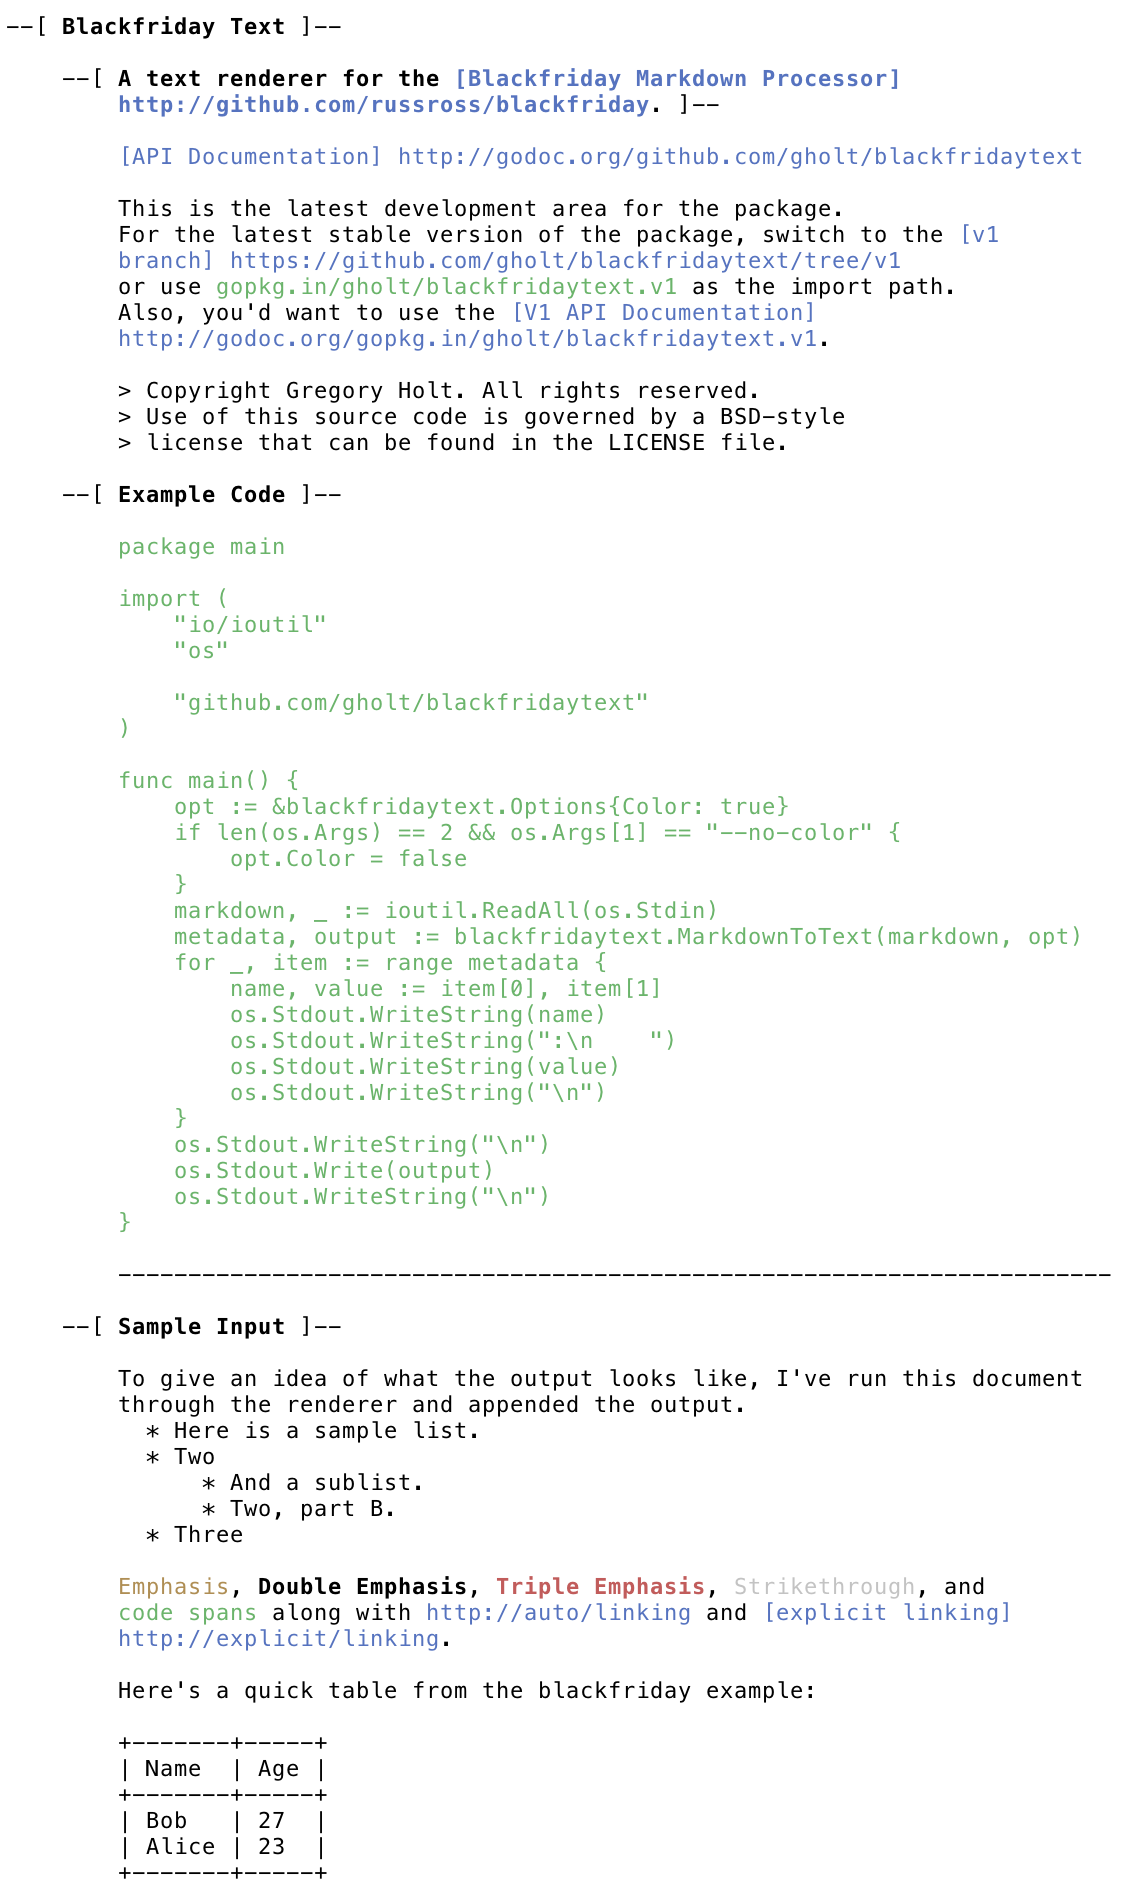
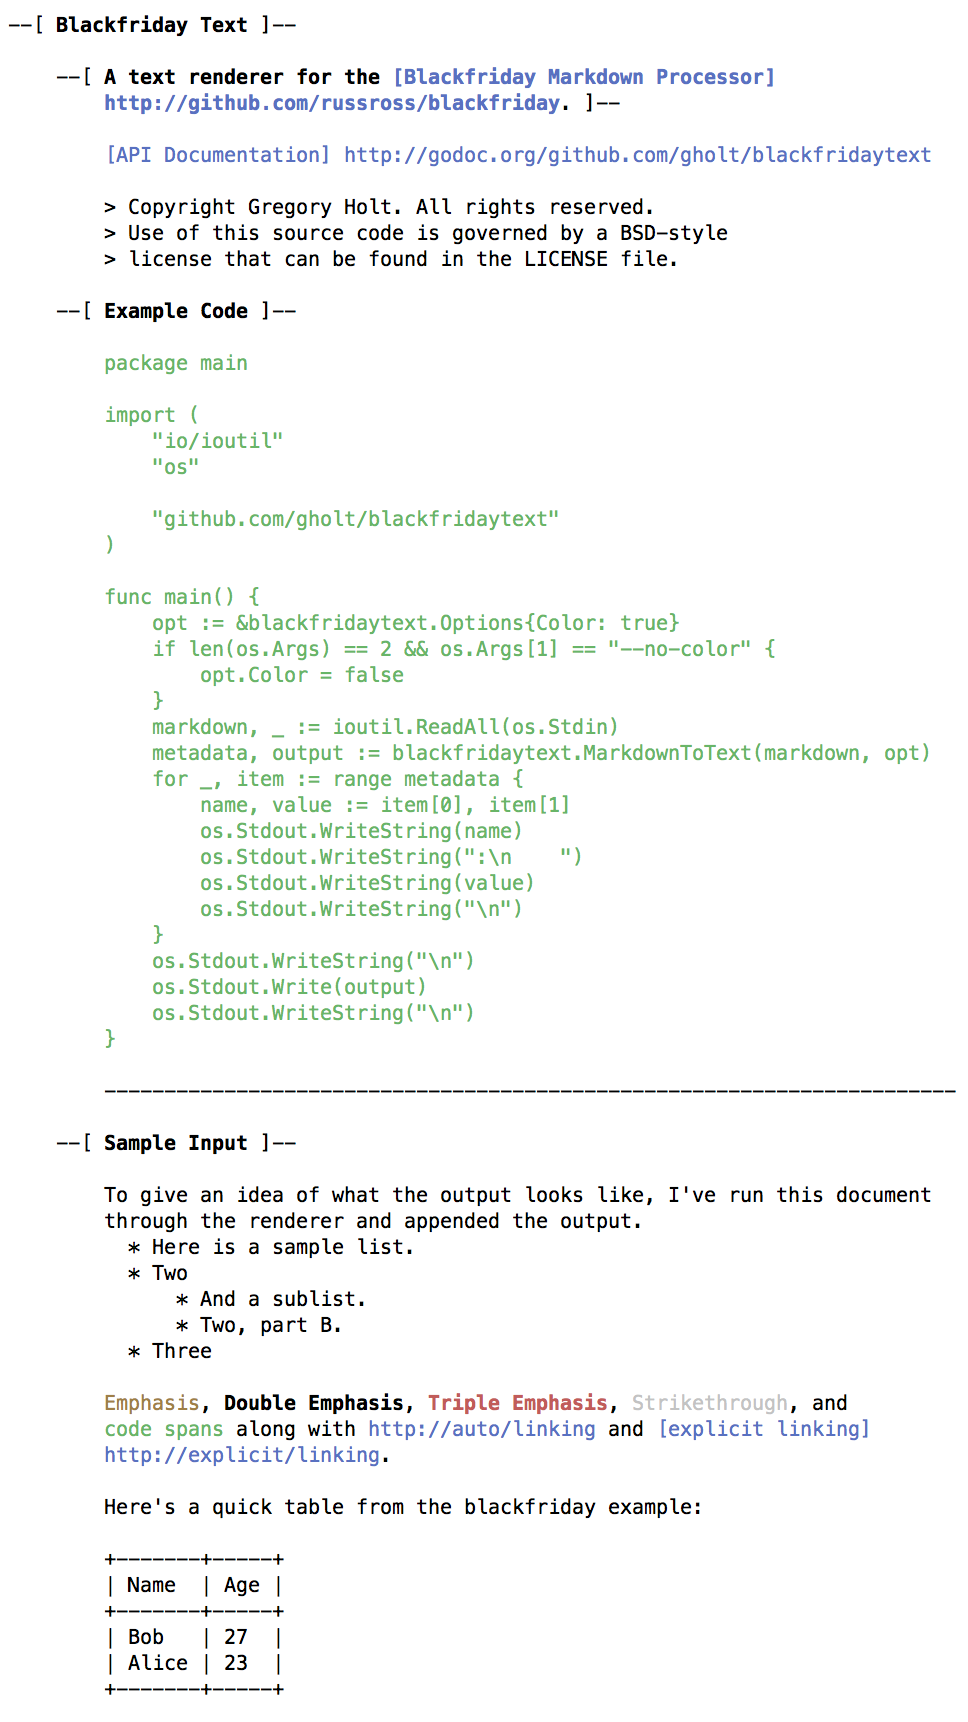
Quit using gopkg.in for now

diff --git a/blackfridaytext.go b/blackfridaytext.go
@@ -4,15 +4,6 @@
 
 // Package blackfridaytext contains a text renderer for the
 // Blackfriday Markdown Processor http://github.com/russross/blackfriday.
-//
-// This is the latest development area for the package.
-//
-// For the latest stable version of the package, switch to the
-// v1 branch at https://github.com/gholt/blackfridaytext/tree/v1
-// or use gopkg.in/gholt/blackfridaytext.v1 as the import path.
-//
-// Also, you'd want to use http://godoc.org/gopkg.in/gholt/blackfridaytext.v1
-// for the v1 documentation.
 package blackfridaytext
 
 import (
@@ -20,8 +11,8 @@ import (
 	"fmt"
 	"strings"
 
+	"github.com/gholt/brimtext"
 	"github.com/russross/blackfriday"
-	"gopkg.in/gholt/brimtext.v1"
 )
 
 type Options struct {

diff --git a/README.md b/README.md
@@ -3,13 +3,6 @@
 
 [API Documentation](http://godoc.org/github.com/gholt/blackfridaytext)
 
-This is the latest development area for the package.  
-For the latest stable version of the package, switch to the
-[v1 branch](https://github.com/gholt/blackfridaytext/tree/v1)  
-or use `gopkg.in/gholt/blackfridaytext.v1` as the import path.  
-Also, you'd want to use the
-[V1 API Documentation](http://godoc.org/gopkg.in/gholt/blackfridaytext.v1).
-
 > Copyright Gregory Holt. All rights reserved.  
 > Use of this source code is governed by a BSD-style  
 > license that can be found in the LICENSE file.
@@ -79,13 +72,6 @@ Alice | 23
         http://github.com/russross/blackfriday. ]--
 
         [API Documentation] http://godoc.org/github.com/gholt/blackfridaytext
-
-        This is the latest development area for the package.
-        For the latest stable version of the package, switch to the [v1
-        branch] https://github.com/gholt/blackfridaytext/tree/v1
-        or use "gopkg.in/gholt/blackfridaytext.v1" as the import path.
-        Also, you'd want to use the [V1 API Documentation]
-        http://godoc.org/gopkg.in/gholt/blackfridaytext.v1.
 
         > Copyright Gregory Holt. All rights reserved.
         > Use of this source code is governed by a BSD-style
